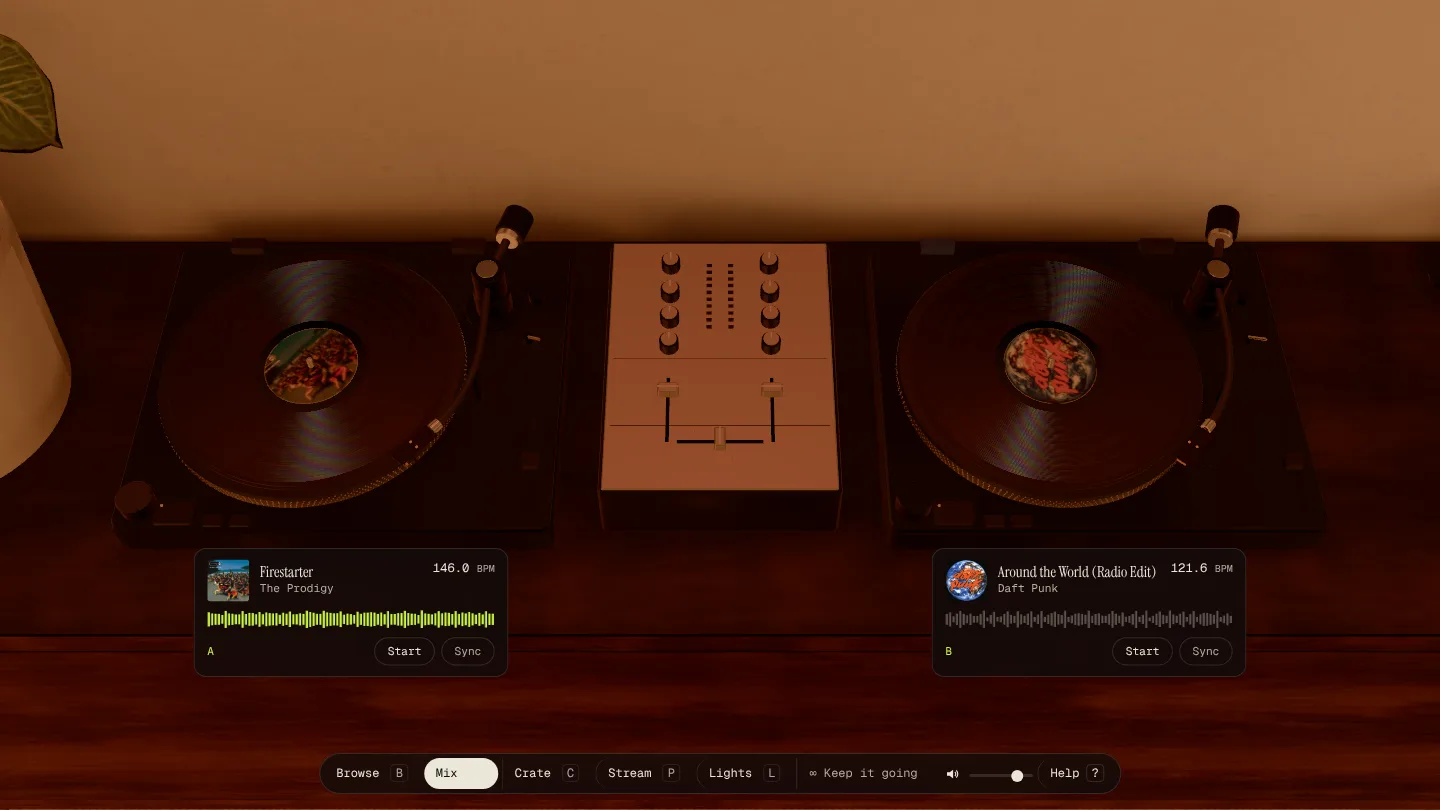
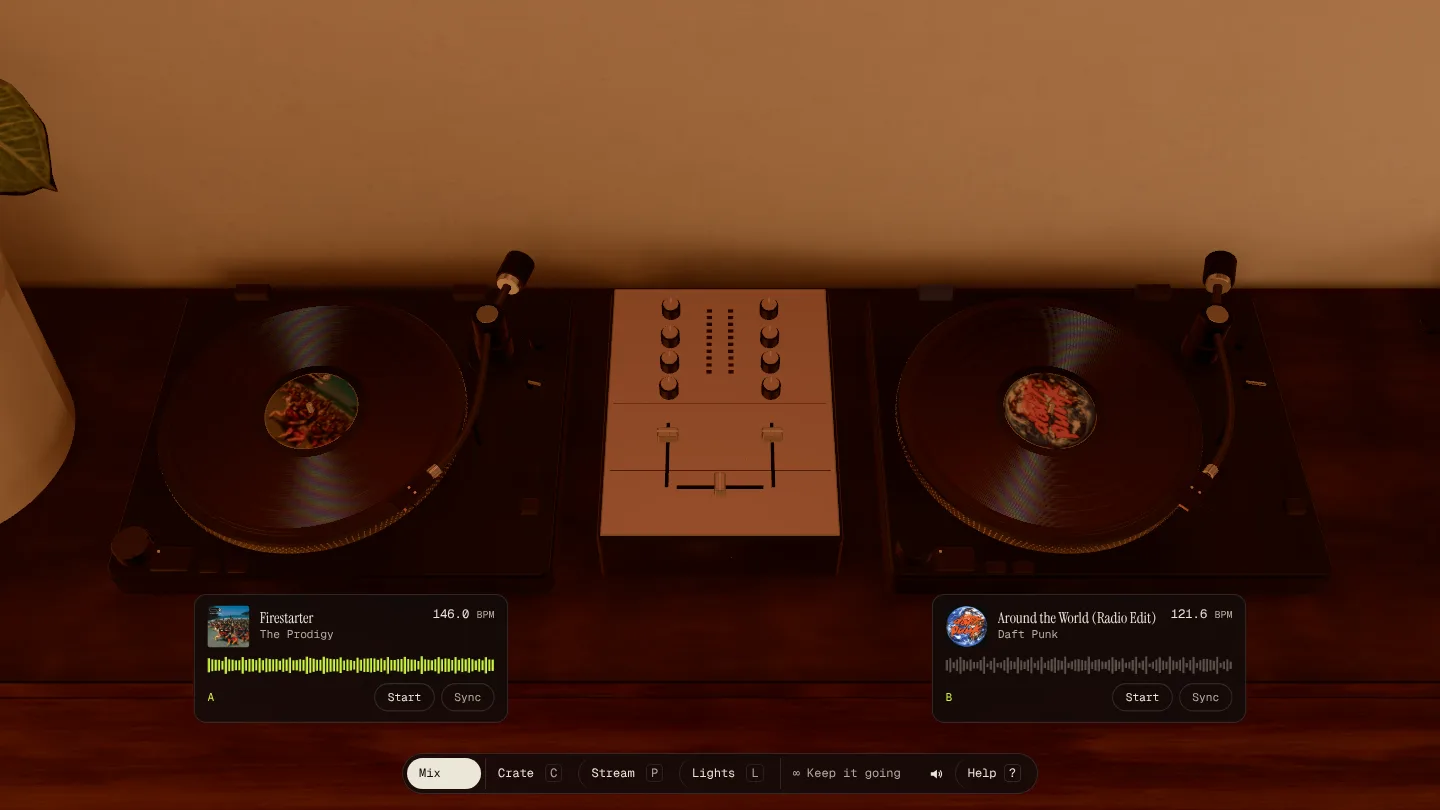
Listening Room post: the strip-back, the stream card, the Mix exit bug
New section on asking what to take away; keys, lights and streamer text match
the slimmer room; new crate and Mix screenshots with the five-control bar.
Adds the blog-post-sync skill so the post is checked after every deployment.

Claude-Session: https://claude.ai/code/session_01LommHjWzrAy5NjnEbuJJz3

diff --git a/writing/listening-room.html b/writing/listening-room.html
@@ -147,17 +147,17 @@
             <ul>
                 <li><strong>Walk around</strong> with WASD, or drag to look. You can't leave the room, but you can look out of the window at a real Amsterdam canal.</li>
                 <li><strong>Dig the crate.</strong> Pull records from my collection or my recently played, or search all 2,600 by artist, title or label, with genre and decade filters. Load them onto deck A or B and press Start.</li>
-                <li><strong>Mix.</strong> Mix mode locks the camera over the decks. Grab the record to scratch, drag the tonearm to drop the needle, ride the faders and the crossfader. A card floats under each deck with the record, its tempo and Start, so the mixer sits dead centre with nothing in the way. The decks behave like real ones: the platter takes a moment to get up to speed, the needle lowers once it's turning, and when a preview runs out the arm swings home. On a keyboard: <kbd>A</kbd>/<kbd>D</kbd> pick a deck, <kbd>Space</kbd> starts it, the arrows nudge and pitch it, <kbd>[</kbd> <kbd>]</kbd> ride the crossfader.</li>
+                <li><strong>Mix.</strong> Mix mode locks the camera over the decks. Grab the record to scratch, drag the tonearm to drop the needle, ride the faders and the crossfader. A card floats under each deck with the record, its tempo and Start, so the mixer sits dead centre with nothing in the way. The decks behave like real ones: the platter takes a moment to get up to speed, the needle lowers once it's turning, and when a preview runs out the arm swings home. On a keyboard: <kbd>A</kbd>/<kbd>D</kbd> pick a deck, <kbd>Space</kbd> starts it, <kbd>S</kbd> syncs it, <kbd>[</kbd> <kbd>]</kbd> ride the crossfader. Everything else you drag.</li>
                 <li><strong>Sync.</strong> Each deck card shows the preview's tempo, measured in the browser, and a waveform that fills as it plays. Sync matches one deck's tempo to the other.</li>
                 <li><strong>Keep it going.</strong> Press ∞ in the control bar and the room DJs for you: before each preview ends, the next record from the shelf is already spinning on the other deck and the crossfader glides across.</li>
                 <li><strong>Click any sleeve</strong> on the shelf for the tracklist and a short artist bio, and Share for a link that opens the room with that record face-out on the wall.</li>
-                <li><strong>Switch the lights.</strong> Seven lights (five lamps, brass picture lights over the art, and LED strips under the shelves), four scenes (Sunday morning, Golden hour, Late night, All on), dimmers that warm up as they dim like real bulbs.</li>
-                <li><strong>Stream</strong> a classic mix through SoundCloud: Coldcut's <em>70 Minutes of Madness</em>, Larry Levan at the Paradise Garage, the Dirtchamber Sessions.</li>
+                <li><strong>Switch the lights.</strong> Seven lights (five lamps, brass picture lights over the art, and LED strips under the shelves), four scenes (Sunday morning, Golden hour, Late night, All on) and a switch for each light. Behind the scenes, the bulbs warm up as they dim, like real ones.</li>
+                <li><strong>Stream</strong> a classic mix through SoundCloud: Coldcut's <em>70 Minutes of Madness</em>, Larry Levan at the Paradise Garage, the Dirtchamber Sessions. While it plays, the two silent decks step aside for one card with the mix and a button back to the records.</li>
                 <li><strong>Type DOOM, DILLA, SUPREME or FINE</strong> (on a phone, press and hold the sign, the covers or the chair). Actually, I'll let you find out what they do.</li>
             </ul>
             <figure class="post-figure">
                 <div class="grid-3">
-                    <div class="tile"><img src="/images/writing/listening-room/ui-crate.webp" width="1440" height="810" alt="The crate panel open on the left: a search box over the whole collection, genre and decade filters, and records with a play button and buttons to load each onto deck A or B. Two deck cards sit above the control bar." loading="lazy"><span class="tag">The crate</span></div>
+                    <div class="tile"><img src="/images/writing/listening-room/ui-crate.webp" width="1440" height="810" alt="The crate panel open on the left: a search box over the whole collection, genre and decade filters, and records with a play button and buttons to load each onto deck A or B. Two deck cards sit above a five-button control bar." loading="lazy"><span class="tag">The crate</span></div>
                     <div class="tile"><img src="/images/writing/listening-room/ui-mix.webp" width="1440" height="810" alt="Mix mode: the camera locked above the two turntables with the mixer in the centre, a card under each deck showing the record, its tempo, a waveform, Start and Sync." loading="lazy"><span class="tag">Mix mode</span></div>
                     <div class="tile"><img src="/images/writing/listening-room/ui-streamer.webp" width="1440" height="810" alt="The Streamer panel with a list of classic SoundCloud mixes." loading="lazy"><span class="tag">The streamer</span></div>
                 </div>
@@ -303,6 +303,11 @@ vec3 mixLightmaps(vec2 uv) {
             <blockquote class="prompt"><p>1 landscape 2 yes but on scratching 3 no</p></blockquote>
             <p>That's the whole mobile strategy, decided in nine words.</p>
 
+            <h3>Ask what to take away</h3>
+            <p>After a day of adding things, the room had grown knobs: an exposure slider, dimmers, picture-quality buttons, a Browse button that did the same job as Mix, a message for every click. So I asked the opposite question:</p>
+            <blockquote class="prompt"><p>think about what we might want to strip back, simplify and reduce complexity, rather than add to UX and UI</p></blockquote>
+            <p>It came back with twelve cuts, ranked. I took nine and parked three to judge once I'd used the slimmer version. The bar went from eight controls to five and the lights panel to two rows, and nothing anyone would miss went with them. Taking things out is a design decision too, and it's the one you forget to ask for.</p>
+
             <h3>Push back when it's wrong</h3>
             <p>It got things wrong. When it told me a change hadn't touched any existing hotkeys and it had, I said so:</p>
             <blockquote class="prompt"><p>not true, S is for Streaming</p></blockquote>
@@ -334,6 +339,7 @@ vec3 mixLightmaps(vec2 uv) {
                     <tr><td>The deck cards, toasts and control bar each looked fine alone, but not together, and different on every screen</td><td>They had grown one fix at a time: a pill here, a toast there, a full-width bar</td><td>One system: the same card everywhere (slim in the room, fuller under each deck in Mix), messages always top centre, a bar that hugs its buttons and grows on big screens</td></tr>
                     <tr><td>The dog's tail disappeared into the chair</td><td>On its original stool the tail hangs straight back, which here is into the backrest</td><td>Swept round his hip, where it can wag in the clear</td></tr>
                     <tr><td>A shared record link opened the room but no record</td><td>The phone's share sheet glued the message onto the link, so the page couldn't read the record number</td><td>Read just the number, and put the record face-out on the wall before its sheet opens</td></tr>
+                    <tr><td>After the clean-up, Mix mode had no way out: M, Esc and Back to the room all did nothing</td><td>Trimming the Mix keys removed a small helper, but the code that leaves Mix still called it, so every exit stopped with an error. The checks only went into Mix, never back out</td><td>One line, then a test that leaves Mix every way, on desktop and phone</td></tr>
                     <tr><td>Typing DOOM or DILLA fought the D key, which walked me sideways</td><td>Hotkeys and typed words fought over the same letters</td><td>Moved walking to the arrows (and later, back to WASD)</td></tr>
                 </tbody>
             </table>

diff --git a/.claude/skills/blog-post-sync/SKILL.md b/.claude/skills/blog-post-sync/SKILL.md
@@ -1,0 +1,59 @@
+---
+name: blog-post-sync
+description: After every deployment of a project that has a companion blog post, decide whether the post needs updating and, if it does, update it, refresh any screenshots that no longer match, and deploy the blog. Use right after pushing or deploying a project (a push to its deploy branch or main), when the user asks to "update the blog", or at the end of a batch of shipped changes. Works for any project whose CLAUDE.md names a blog post, or whose post can be found on the blog site.
+---
+
+# Blog post sync
+
+Every deployment of a project with a write-up ends with one question: **does the post still tell the truth?**
+Answer it, act on it, and say in one line what you decided.
+
+## 1. Find the post
+
+In order, stop at the first hit:
+1. The project's `CLAUDE.md`: a line like `Blog post: <repo>/<path>` (for example `theluckystrike-website/writing/listening-room.html`).
+2. The blog repo: search the posts for the project's live URL or name (`grep -rl "<live-url-or-name>" writing/`).
+3. Ask the user once, then add the `Blog post:` line to the project's `CLAUDE.md` so you never have to ask again.
+
+If the blog repo isn't in the session, attach it (add_repo or clone) before going further. Pull its deploy branch first.
+
+## 2. Decide if it's needed
+
+List what shipped since the post last changed:
+```bash
+since=$(git -C <blog-repo> log -1 --format=%ci -- <post-path>)
+git -C <project-repo> log --since="$since" --format='%h %s'
+```
+Then judge each change against the post as written (read the post; don't go from memory):
+
+| Update the post | Leave it (batch for later) |
+|---|---|
+| A feature visitors can see or use was added, removed or renamed | Internal refactors, tests, tooling |
+| The post now describes something that's gone or works differently (controls, keys, buttons, panels) | A few pixels of spacing, colour tweaks |
+| A screenshot in the post no longer matches the live product | A fix that only restores what the post already says |
+| A bug with a story worth telling (what you saw, the real cause, the fix) | Reverts, typo fixes, version bumps |
+| A change in approach the post discusses (design decisions, how it was prompted or built) | |
+
+If nothing qualifies, stop and say: **"Blog: no update needed (only <reason>)."** Don't touch the post.
+
+## 3. Update it
+
+- **Fix what's now false first.** Search the post for every control, key, panel and feature you changed or removed, and correct each mention, including image `alt` text and captions.
+- **Add only what a reader would care about.** Extend existing lists and tables (a feature list, a "what broke" table, stats) rather than adding new sections. Add a section only for a genuinely new idea.
+- **Keep the author's voice.** Match the post's tone, sentence length, spelling (British or American) and punctuation. Short, concrete, no hype. Quote the user's real prompts verbatim, typos included, if the post does that.
+- **Never** put model names or IDs in the post.
+- **Screenshots:** if an image shows UI that changed, retake it from the **live** site at the same size and crop, save it over the same filename in the same format (for example webp, quality about 82), and keep `width`/`height` attributes correct. Wait for animations and camera moves to finish before capturing. Look at every new image before using it.
+- **Stats** (counts, totals): update only those you can verify; otherwise leave them.
+
+## 4. Check and ship
+
+1. Screenshot the edited parts of the post (a local static server or the built page) and look at them: no broken layout, images load.
+2. Commit in the blog repo with a message like `<Project> post: <what changed>`, using the session's commit attribution.
+3. Push the way the blog repo deploys (its branch rules in its CLAUDE.md or the session's git instructions). Then confirm the live page contains the new text (`curl -s <post-url>?x=$RANDOM | grep -c "<new phrase>"`).
+4. Report in one or two lines: what you changed in the post and which images you replaced, or why no update was needed.
+
+## Don't
+
+- Don't update the post before the deployment itself is verified live.
+- Don't rewrite sections that are still true just to freshen them.
+- Don't let the post describe unreleased or half-finished work.
